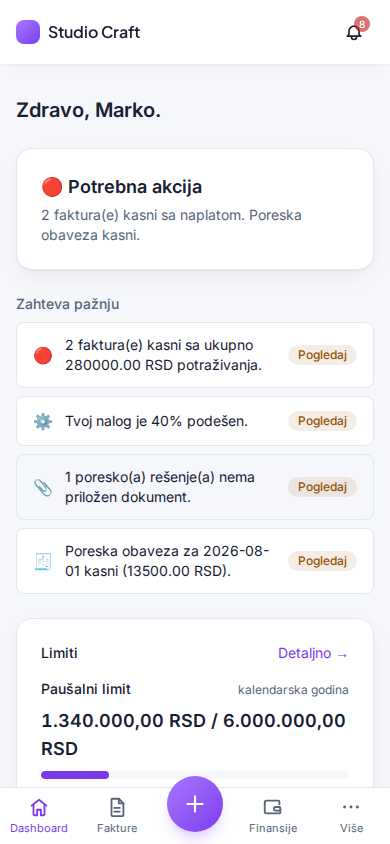
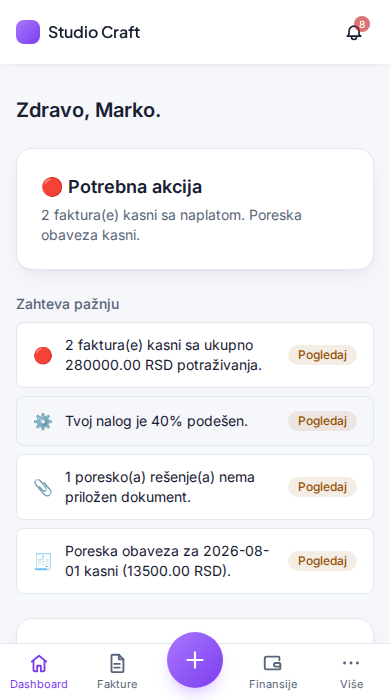
fix: rebalance hero screenshot sizes — laptop dominant, mobile smaller
User feedback on the previous fix: the mobile screenshot read as big as
or bigger than the laptop one, and its bottom nav was getting cut off
in normal viewport screenshots because the image was too tall in
absolute pixels (390x844 at 32% width). Recaptured mobile at 390x700 —
still clearly phone-shaped and shows the full bottom nav+FAB, just not
as extreme — and shifted the width split from 70/32 to 80/23 so the
laptop image is unambiguously the dominant one.

diff --git a/apps/web/app/pages/index.vue b/apps/web/app/pages/index.vue
@@ -68,10 +68,10 @@ const faqItems = computed(() =>
         </div>
 
         <div v-reveal class="relative flex items-center justify-center py-6 lg:justify-end">
-          <div class="w-[70%]">
+          <div class="w-[80%]">
             <ScreenshotFrame src="/screenshots/hero-laptop.png" :alt="t('home.hero.laptopScreenshotAlt')" />
           </div>
-          <div class="w-[32%] -ml-16 translate-y-14">
+          <div class="w-[23%] -ml-10 translate-y-10">
             <ScreenshotFrame src="/screenshots/hero-mobile.png" :alt="t('home.hero.mobileScreenshotAlt')" />
           </div>
         </div>
